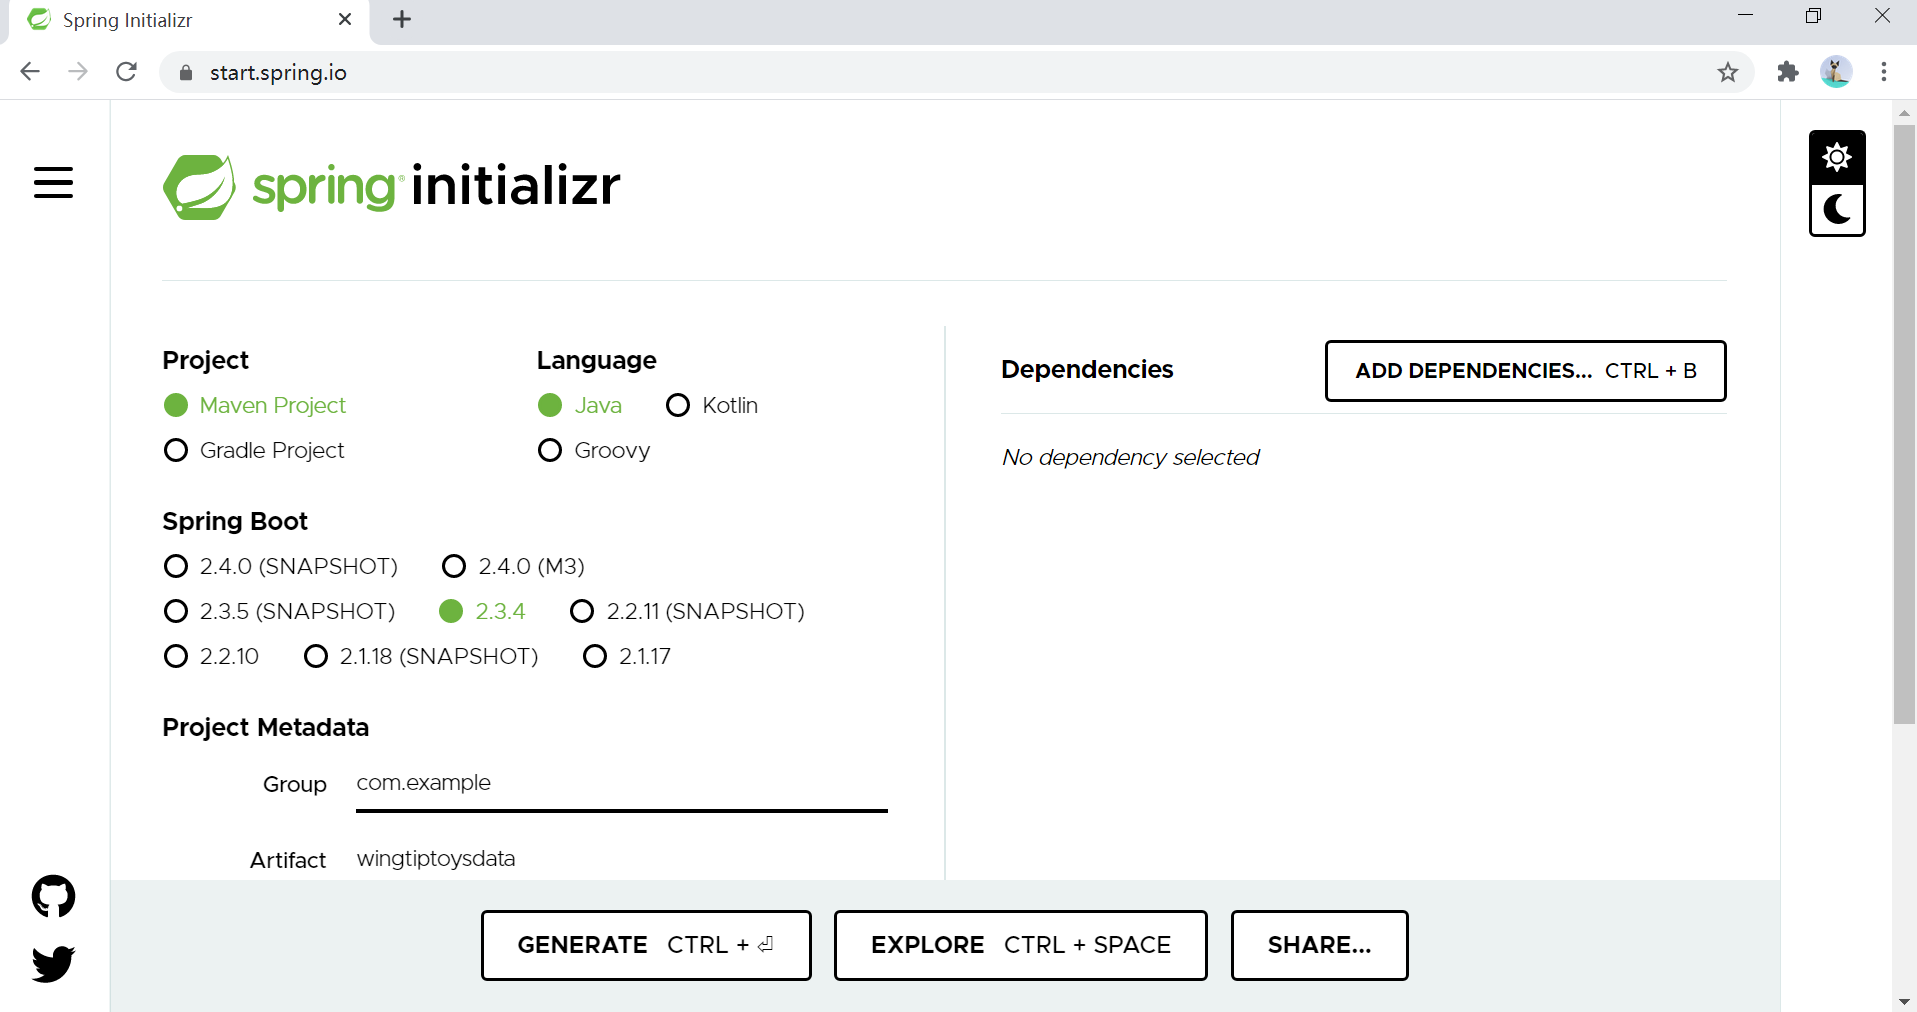
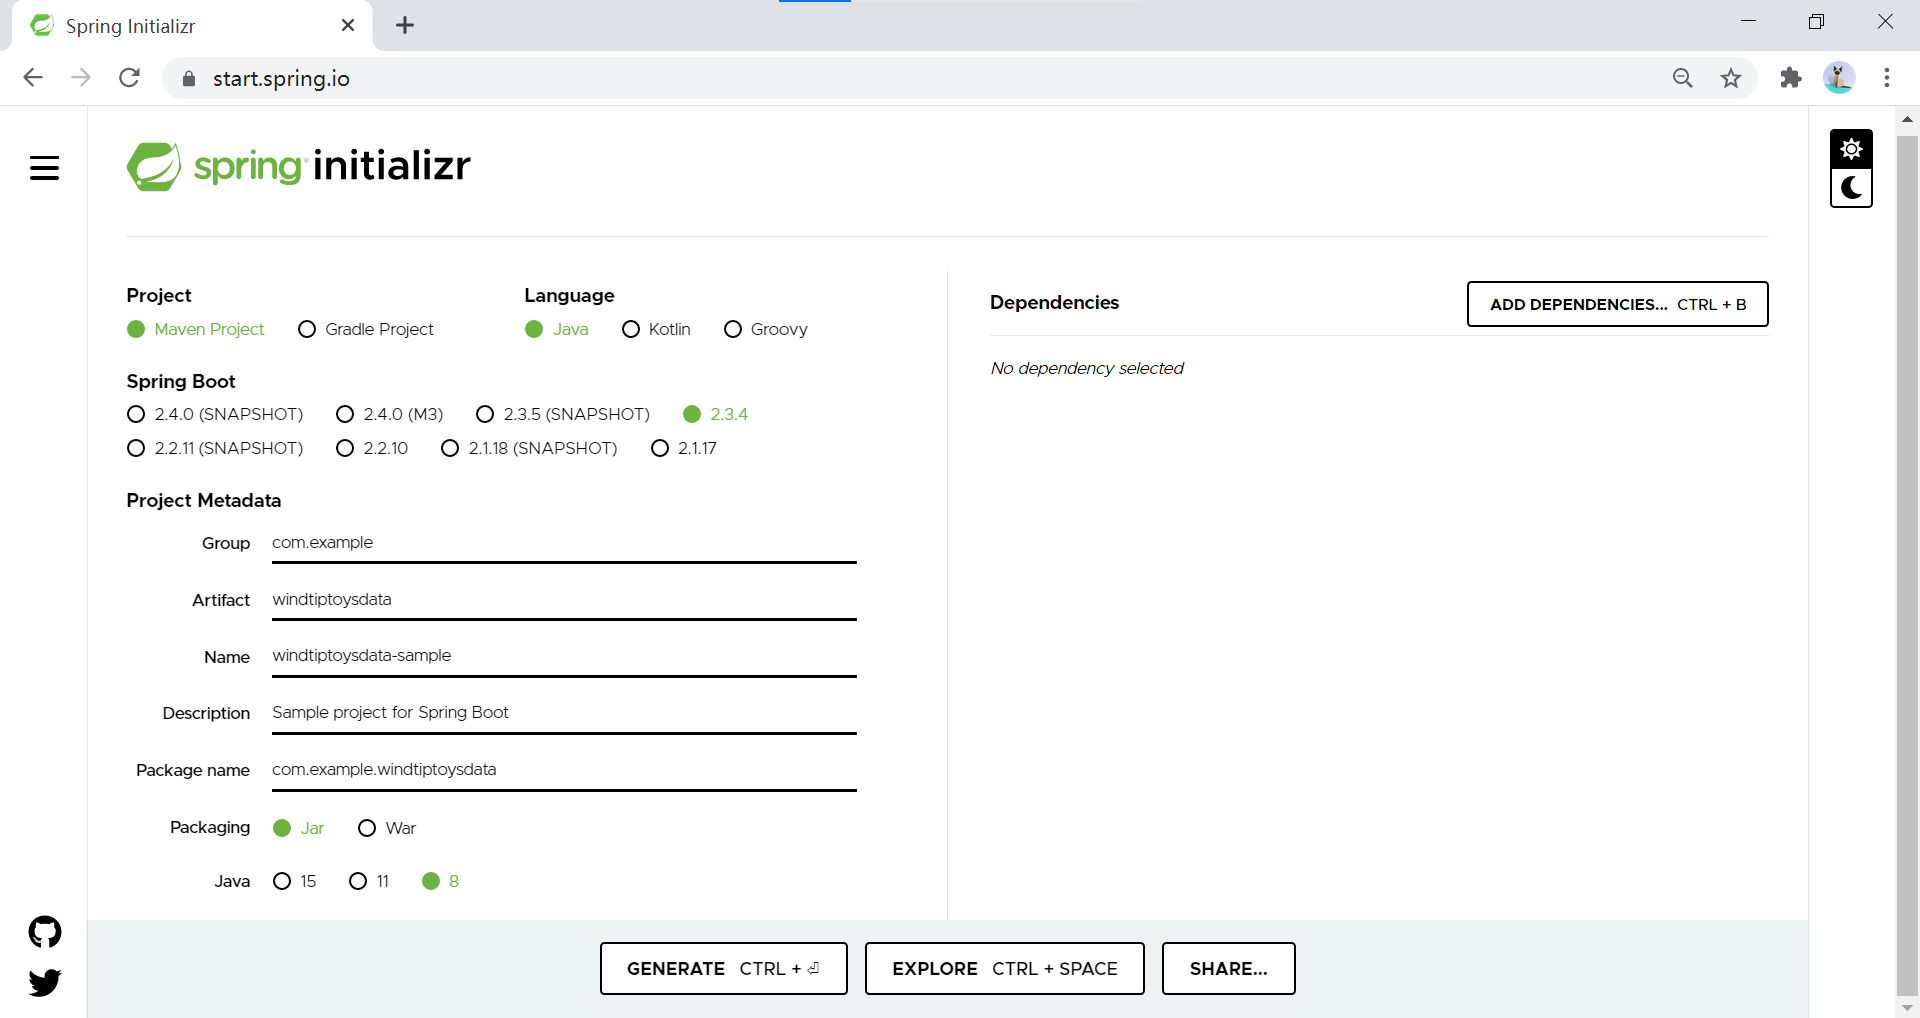
Modified for comment

diff --git a/articles/java/spring-framework/configure-spring-cloud-stream-binder-java-app-azure-event-hub.md b/articles/java/spring-framework/configure-spring-cloud-stream-binder-java-app-azure-event-hub.md
@@ -3,7 +3,7 @@ title: How to create a Spring Cloud Stream Binder application with Azure Event H
 description: Learn how to configure a Java-based Spring Cloud Stream Binder application created with the Spring Boot Initializr with Azure Event Hubs.
 services: event-hubs
 documentationcenter: java
-ms.date: 10/12/2020
+ms.date: 10/13/2020
 ms.service: event-hubs
 ms.tgt_pltfrm: na
 ms.topic: article
@@ -24,7 +24,7 @@ The following prerequisites are required in order to follow the steps in this ar
 
 > [!IMPORTANT]
 >
-> Spring Boot version 2.0 or greater is required to complete the steps in this article.
+> Spring Boot version 2.2 or greater is required to complete the steps in this article.
 >
 
 ## Create an Azure Event Hub using the Azure portal
@@ -104,6 +104,7 @@ The following procedure creates a Spring boot application.
    * Generate a **Maven** project with **Java**.
    * Specify a **Spring Boot** version that is equal to or greater than 2.2.
    * Specify the **Group** and **Artifact** names for your application.
+   * Select **8** Java version.
    * Add the *Web* dependency.
 
    >[!div class="mx-imgBorder"]
@@ -120,9 +121,6 @@ The following procedure creates a Spring boot application.
 
 1. After you have extracted the files on your local system, your simple Spring Boot application will be ready for editing.
    
-   > [!NOTE]
-   > Spring Initializr uses Java 11 as the default version. To use the Spring Boot Starters described in this topic, you must select Java 8 instead.
-    
 ## Configure your Spring Boot app to use the Azure Event Hub starter
 
 1. Locate the *pom.xml* file in the root directory of your app; for example:

diff --git a/articles/java/spring-framework/configure-spring-boot-starter-java-app-with-cosmos-db.md b/articles/java/spring-framework/configure-spring-boot-starter-java-app-with-cosmos-db.md
@@ -5,7 +5,7 @@ services: cosmos-db
 documentationcenter: java
 author: KarlErickson
 ms.author: karler
-ms.date: 10/12/2020
+ms.date: 10/13/2020
 ms.service: cosmos-db
 ms.tgt_pltfrm: multiple
 ms.topic: article
@@ -58,7 +58,7 @@ Use the following steps to create a new Spring Boot application project with Azu
 
 1. Browse to <https://start.spring.io/>.
 
-1. Specify that you want to generate a **Maven Project** with **Java**, specify your **Spring Boot** version, enter the **Group** and **Artifact** names for your application, add **Azure Support** in the dependencies, and then click the button to **Generate Project**.
+1. Specify that you want to generate a **Maven Project** with **Java**, specify your **Spring Boot** version, enter the **Group** and **Artifact** names for your application, select **8** Java version, add **Azure Support** in the dependencies, and then click the button to **Generate Project**.
 
     ![Basic Spring Initializr options][SI01]
 
@@ -69,10 +69,6 @@ Use the following steps to create a new Spring Boot application project with Azu
 
 Your simple Spring Boot application is now ready for editing.
     
-   > [!NOTE]
-   > Spring Initializr uses Java 11 as the default version. To use the Spring Boot Starters described in this topic, you must select Java 8 instead.
-  
-
 ## Configure your Spring Boot application to use the Azure Spring Boot Starter
 
 1. Locate the *pom.xml* file in the directory of your app; for example:
